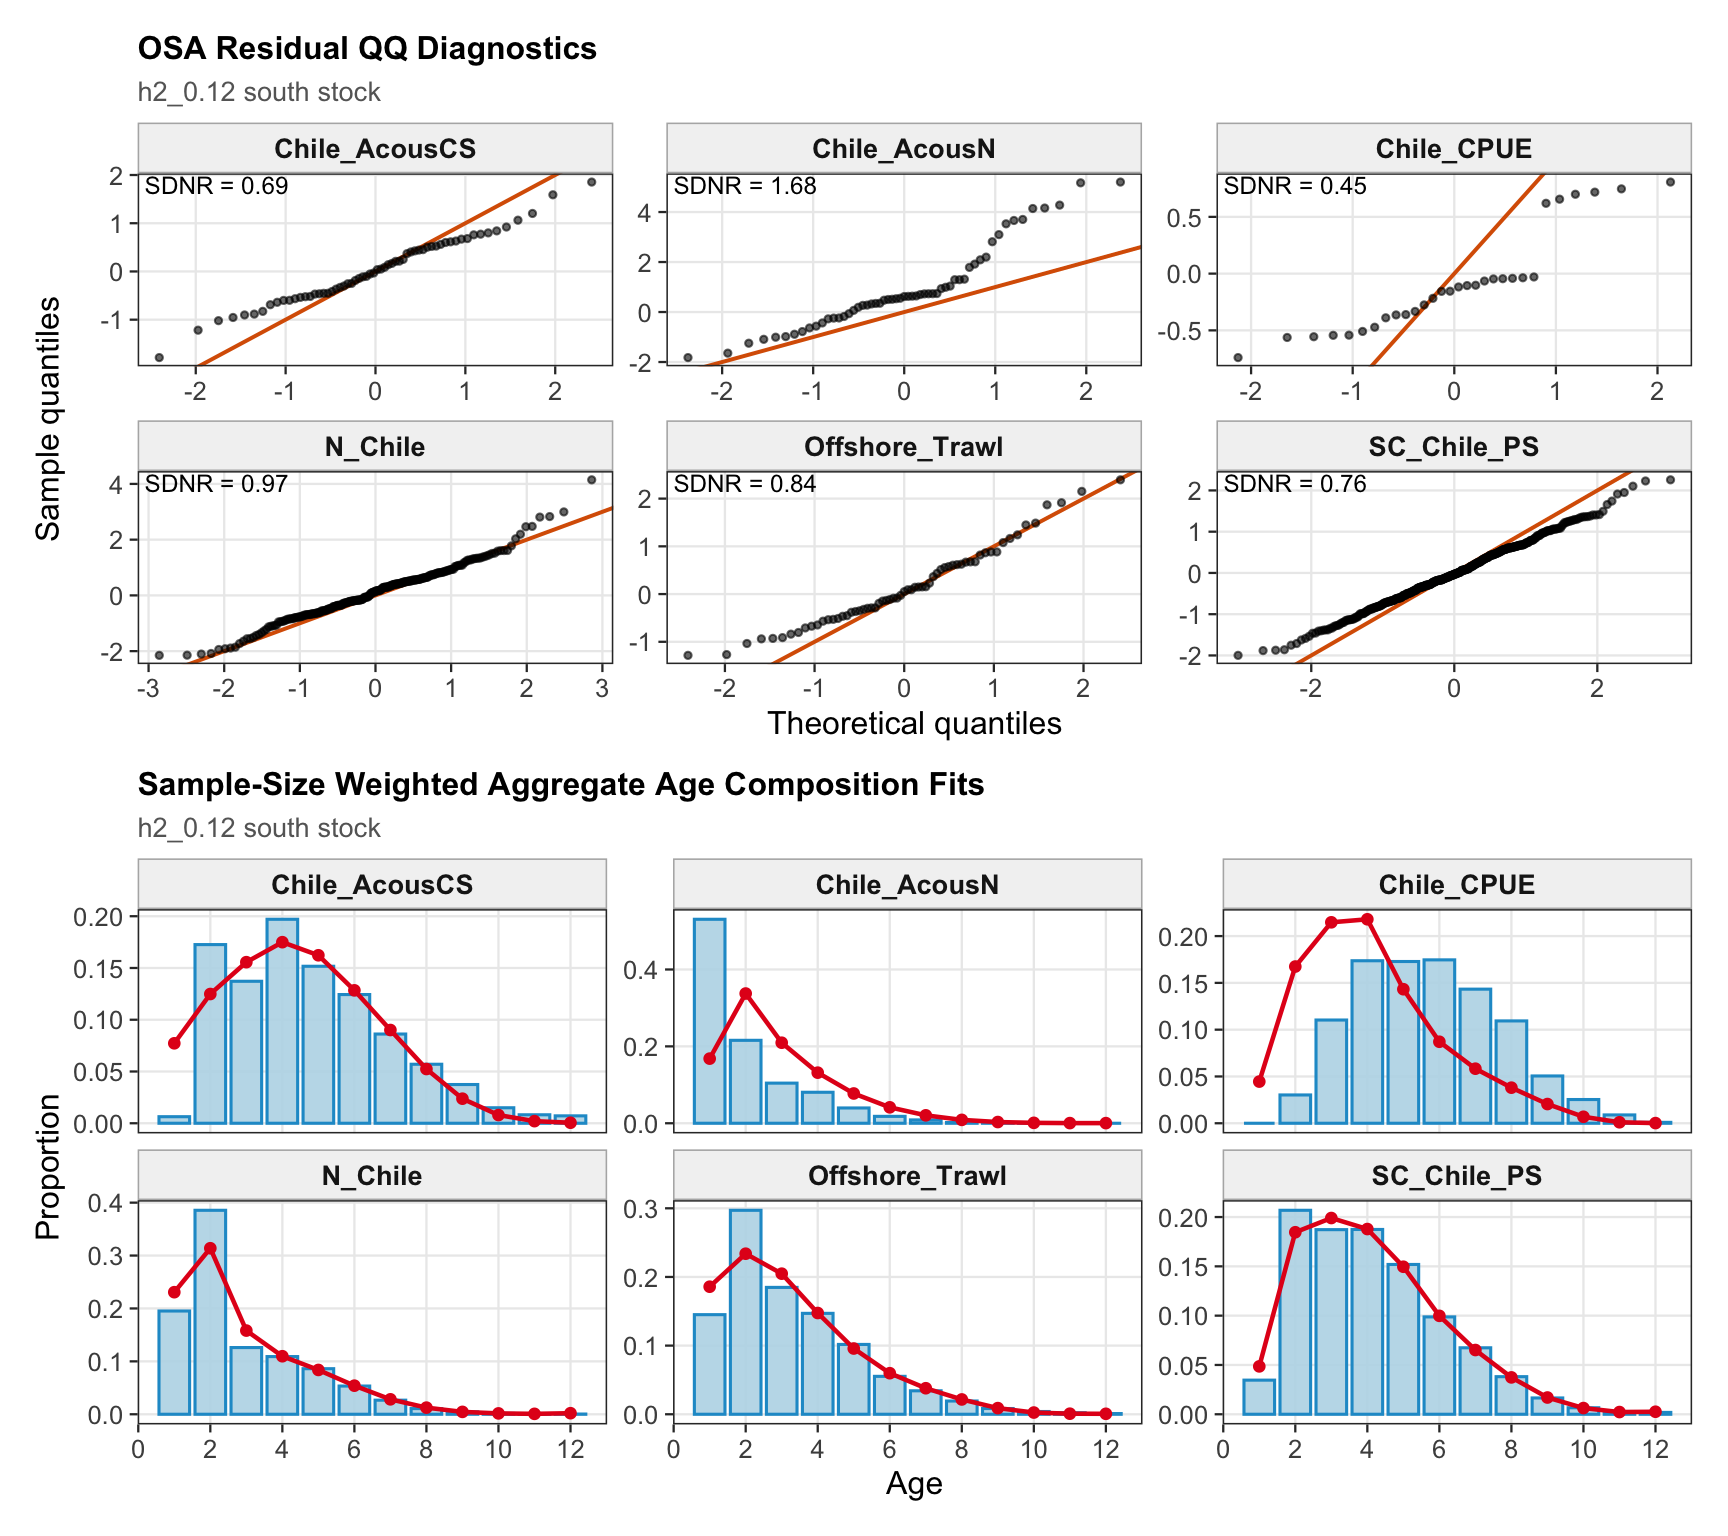
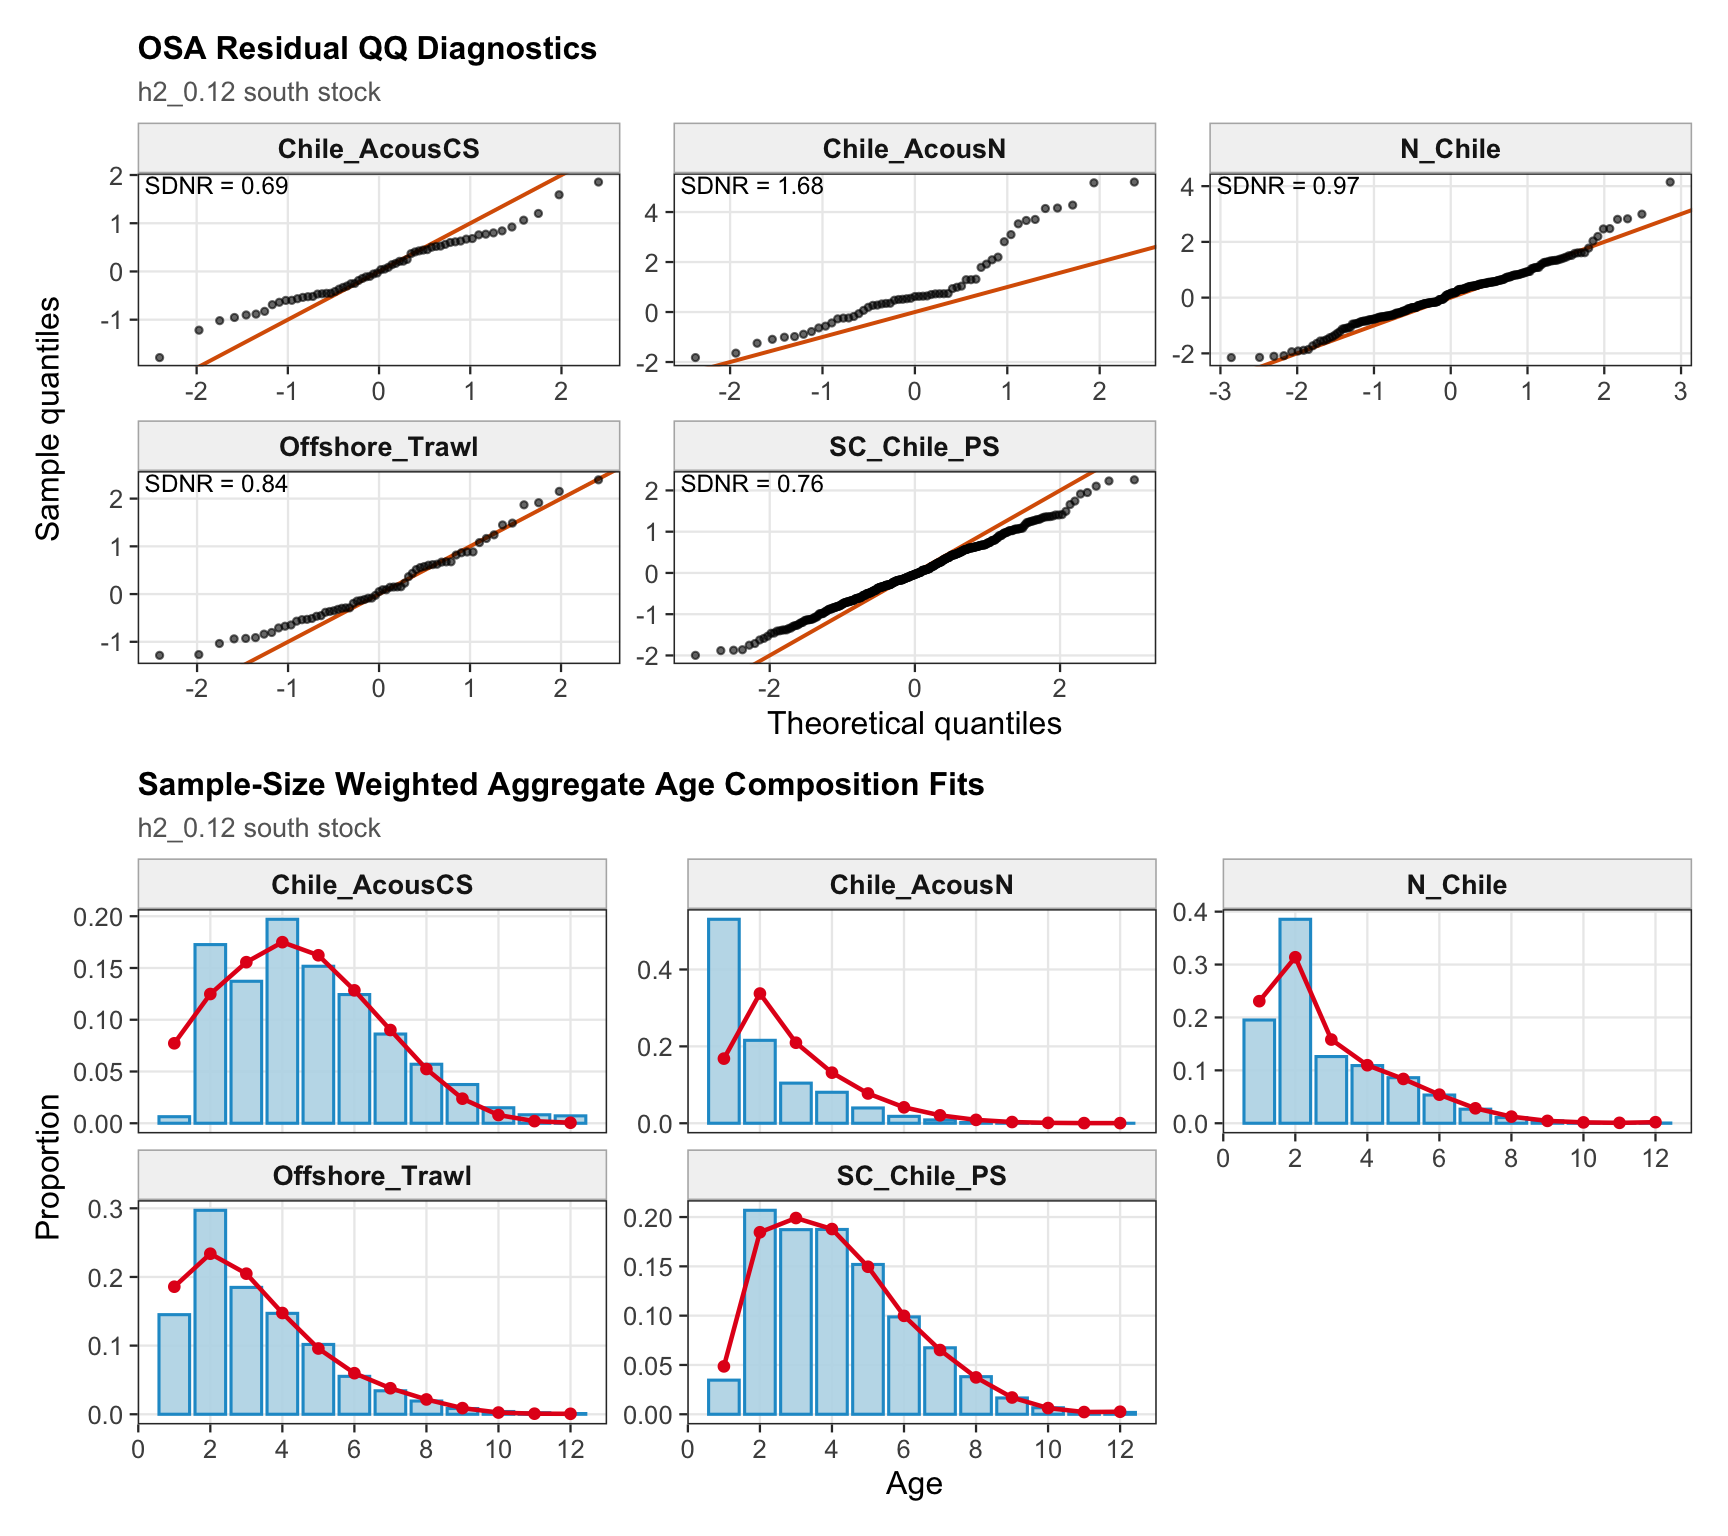
Sync SCW16 downweighting clarification

diff --git a/docs/SCW16.html b/docs/SCW16.html
@@ -259,7 +259,7 @@ Table&nbsp;1: Model configurations included in this report.
 <tr class="odd">
 <td style="text-align: left;">SC13_1.15</td>
 <td style="text-align: left;">SC13 sensitivity</td>
-<td style="text-align: left;">Additional SC13 run that downweights the terminal-year northern acoustic and Peruvian CPUE information.</td>
+<td style="text-align: left;">Additional SC13 run that fully downweights the Acoustic N and Peruvian CPUE index series across all years.</td>
 </tr>
 </tbody>
 </table>
@@ -1785,7 +1785,7 @@ Figure&nbsp;45: ADNUTS sampler diagnostics for h2_0.12.
 <section id="data-sensitivities" class="level1" data-number="7">
 <h1 data-number="7"><span class="header-section-number">7</span> Data Sensitivities</h1>
 <p>These sensitivities all start from the <code>0.12</code> final bridge configuration, except <code>1.04</code>, which starts from <code>1.03</code> and adds back the old <code>Peru_Acoustic</code> series from <code>0.00</code>. The terminal-year metric and percent-difference tables are provided near the beginning of the report and are not repeated here.</p>
-<p><code>SC13_1.15</code> is included as an additional SC13-style sensitivity. It downweights the terminal-year northern acoustic and Peruvian CPUE information, and therefore should be interpreted as a diagnostic of how strongly those recent observations affect the final-year stock status and fishing mortality pattern rather than as a competing final-model configuration.</p>
+<p><code>SC13_1.15</code> is included as an additional SC13-style sensitivity. It fully downweights the Acoustic N and Peruvian CPUE index series across all years, effectively removing their likelihood contribution rather than only reducing the influence of terminal-year observations. The run should therefore be interpreted as a diagnostic of how strongly those two complete index series affect the final-year stock status and fishing mortality pattern rather than as a competing final-model configuration.</p>
 <section id="single-stock-hypothesis-3" class="level2" data-number="7.1">
 <h2 data-number="7.1" class="anchored" data-anchor-id="single-stock-hypothesis-3"><span class="header-section-number">7.1</span> Single-Stock Hypothesis</h2>
 <p>Under the single-stock hypothesis, the sensitivities retain the broad increase in biomass after the mid-2010s but differ in the magnitude of the rebuilding signal. Replacing the Chilean CPUE series (<code>1.01</code>) leaves terminal biomass close to <code>0.12</code>, while replacing the Peruvian CPUE (<code>1.02</code>) and dropping the two Peru acoustic series (<code>1.03</code>) both raise terminal biomass substantially. Adding the old Peru acoustic series back in <code>1.04</code> leaves the single-stock trajectory close to <code>1.03</code>, indicating that the larger single-stock biomass response is driven mainly by removal of the two seasonal Peru acoustic series rather than by the replacement index itself. The SC13 downweighting sensitivity (<code>SC13_1.15</code>) is intermediate: terminal biomass is above <code>0.12</code> but below <code>1.02</code>-<code>1.04</code>.</p>
@@ -1887,7 +1887,7 @@ Figure&nbsp;50: Recruitment estimates for the final model and completed data sen
 </div>
 </div>
 <div id="tabset-7-3" class="tab-pane" role="tabpanel" aria-labelledby="tabset-7-3-tab">
-<p>FarNorth fishing mortality is the clearest diagnostic contrast among the two-stock sensitivities. The final model estimates very high terminal FarNorth fishing mortality, while <code>1.02</code>, <code>1.03</code>, and especially <code>1.04</code> reduce that estimate. <code>SC13_1.15</code> also moves FarNorth fishing mortality downward relative to <code>0.12</code>, consistent with downweighting recent observations that otherwise pull the FarNorth stock to a very low terminal biomass.</p>
+<p>FarNorth fishing mortality is the clearest diagnostic contrast among the two-stock sensitivities. The final model estimates very high terminal FarNorth fishing mortality, while <code>1.02</code>, <code>1.03</code>, and especially <code>1.04</code> reduce that estimate. <code>SC13_1.15</code> also moves FarNorth fishing mortality downward relative to <code>0.12</code>, consistent with fully downweighting the Acoustic N and Peruvian CPUE index series that otherwise pull the FarNorth stock to a very low terminal biomass.</p>
 <div class="cell">
 <div class="cell-output-display">
 <div id="fig-sensitivity-h2-fmort" class="quarto-float quarto-figure quarto-figure-center anchored">